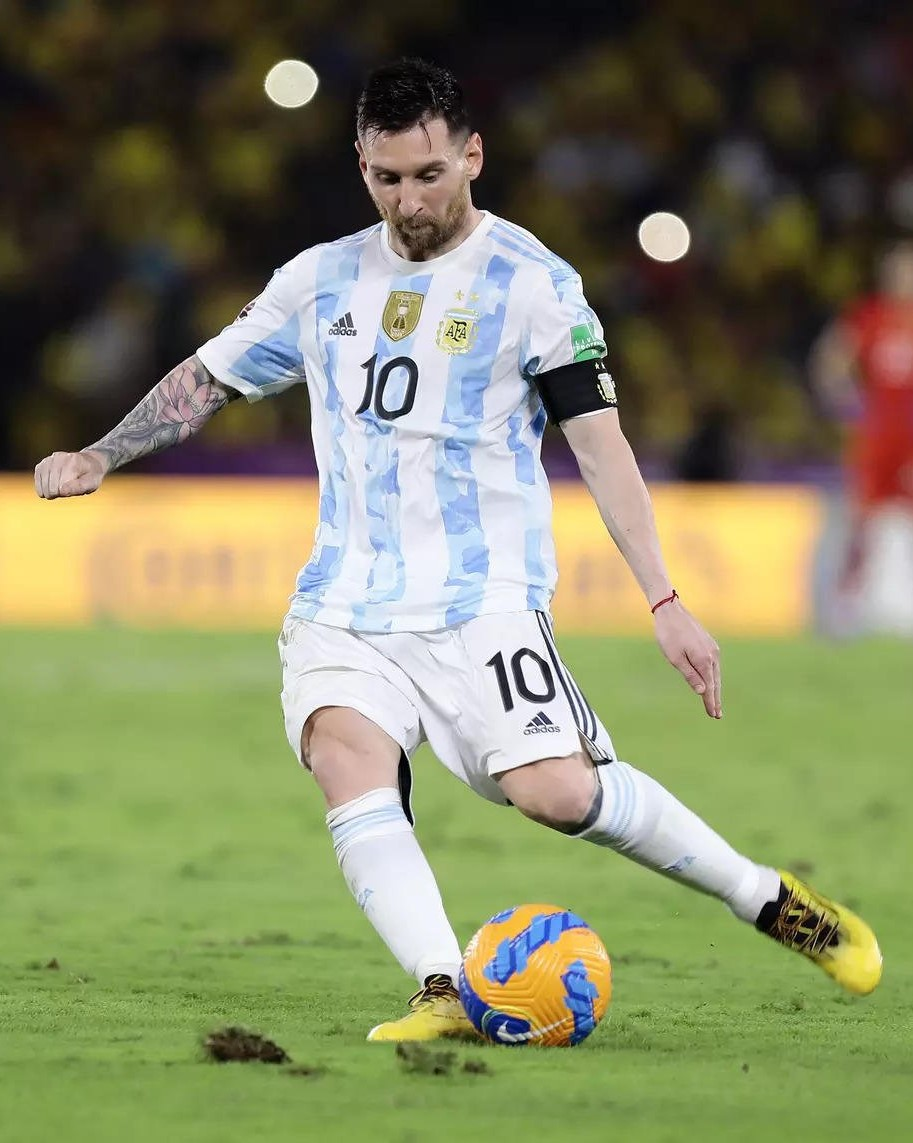
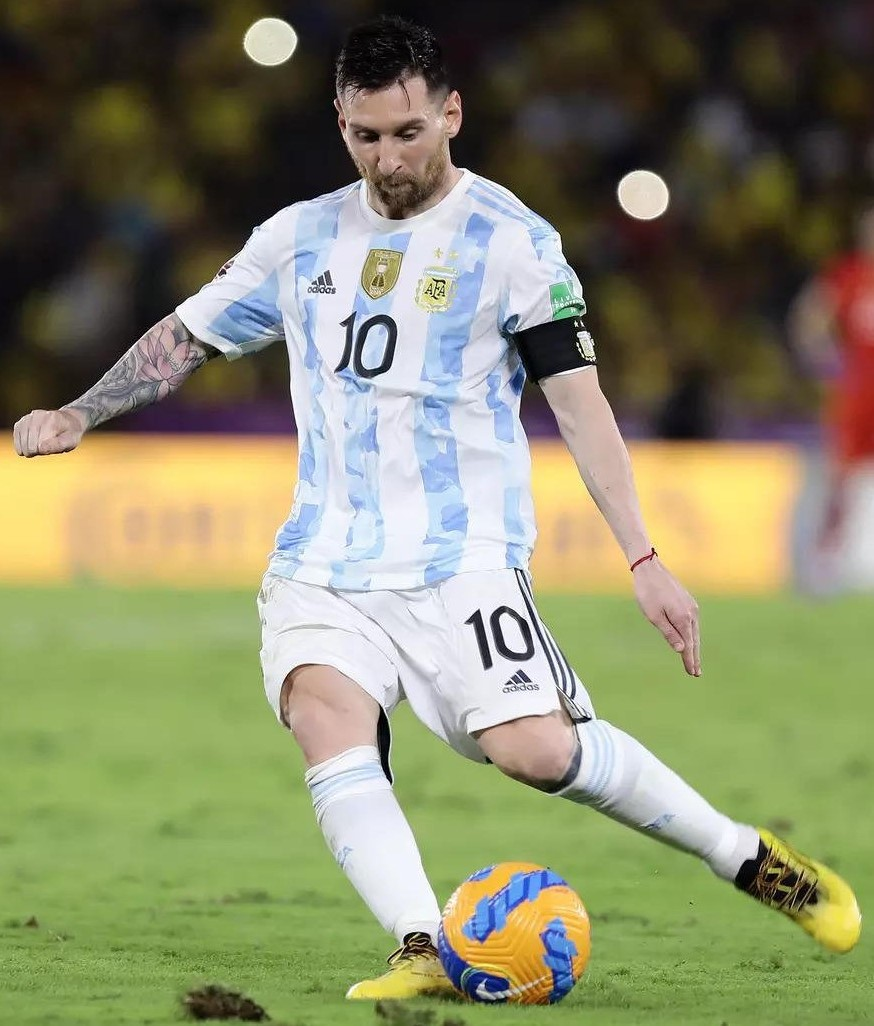
update lots

diff --git a/ErS FIFPro/Forms/fFootballerInfo.Designer.cs b/ErS FIFPro/Forms/fFootballerInfo.Designer.cs
@@ -28,25 +28,90 @@
         /// </summary>
         private void InitializeComponent()
         {
+            System.ComponentModel.ComponentResourceManager resources = new System.ComponentModel.ComponentResourceManager(typeof(fFootballerInfo));
             this.pNav = new System.Windows.Forms.Panel();
+            this.panel1 = new System.Windows.Forms.Panel();
+            this.lbFootballerName = new System.Windows.Forms.Label();
+            this.lbFootballerBirthday = new System.Windows.Forms.Label();
+            this.ptbFootballerInfo = new System.Windows.Forms.PictureBox();
             this.btnExit = new FontAwesome.Sharp.IconButton();
             this.btnMinimize = new FontAwesome.Sharp.IconButton();
+            this.lbFootballerCountry = new System.Windows.Forms.Label();
+            this.lbFootballerRole = new System.Windows.Forms.Label();
+            this.lbFootballerIndex = new System.Windows.Forms.Label();
+            this.richTextBox1 = new System.Windows.Forms.RichTextBox();
+            this.lbFootballerDetail = new System.Windows.Forms.Label();
             this.pNav.SuspendLayout();
+            this.panel1.SuspendLayout();
+            ((System.ComponentModel.ISupportInitialize)(this.ptbFootballerInfo)).BeginInit();
             this.SuspendLayout();
             // 
             // pNav
             // 
+            this.pNav.BackColor = System.Drawing.Color.FromArgb(((int)(((byte)(26)))), ((int)(((byte)(25)))), ((int)(((byte)(62)))));
             this.pNav.Controls.Add(this.btnExit);
             this.pNav.Controls.Add(this.btnMinimize);
             this.pNav.Dock = System.Windows.Forms.DockStyle.Top;
             this.pNav.Location = new System.Drawing.Point(0, 0);
             this.pNav.Name = "pNav";
-            this.pNav.Size = new System.Drawing.Size(625, 36);
+            this.pNav.Size = new System.Drawing.Size(866, 36);
             this.pNav.TabIndex = 0;
             this.pNav.MouseDown += new System.Windows.Forms.MouseEventHandler(this.pNav_MouseDown);
             // 
+            // panel1
+            // 
+            this.panel1.Controls.Add(this.lbFootballerDetail);
+            this.panel1.Controls.Add(this.richTextBox1);
+            this.panel1.Controls.Add(this.lbFootballerIndex);
+            this.panel1.Controls.Add(this.lbFootballerRole);
+            this.panel1.Controls.Add(this.lbFootballerCountry);
+            this.panel1.Controls.Add(this.lbFootballerBirthday);
+            this.panel1.Controls.Add(this.lbFootballerName);
+            this.panel1.Dock = System.Windows.Forms.DockStyle.Fill;
+            this.panel1.Location = new System.Drawing.Point(0, 36);
+            this.panel1.Name = "panel1";
+            this.panel1.Size = new System.Drawing.Size(396, 588);
+            this.panel1.TabIndex = 2;
+            // 
+            // lbFootballerName
+            // 
+            this.lbFootballerName.BackColor = System.Drawing.Color.FromArgb(((int)(((byte)(31)))), ((int)(((byte)(30)))), ((int)(((byte)(68)))));
+            this.lbFootballerName.Dock = System.Windows.Forms.DockStyle.Top;
+            this.lbFootballerName.Font = new System.Drawing.Font("Century Schoolbook", 20.25F, System.Drawing.FontStyle.Bold, System.Drawing.GraphicsUnit.Point, ((byte)(0)));
+            this.lbFootballerName.ForeColor = System.Drawing.Color.Gainsboro;
+            this.lbFootballerName.Location = new System.Drawing.Point(0, 0);
+            this.lbFootballerName.Name = "lbFootballerName";
+            this.lbFootballerName.Size = new System.Drawing.Size(396, 62);
+            this.lbFootballerName.TabIndex = 20;
+            this.lbFootballerName.Text = "Lionel Messi";
+            this.lbFootballerName.TextAlign = System.Drawing.ContentAlignment.MiddleCenter;
+            // 
+            // lbFootballerBirthday
+            // 
+            this.lbFootballerBirthday.Dock = System.Windows.Forms.DockStyle.Top;
+            this.lbFootballerBirthday.Font = new System.Drawing.Font("Century Schoolbook", 14.25F, System.Drawing.FontStyle.Regular, System.Drawing.GraphicsUnit.Point, ((byte)(0)));
+            this.lbFootballerBirthday.ForeColor = System.Drawing.Color.Black;
+            this.lbFootballerBirthday.Location = new System.Drawing.Point(0, 62);
+            this.lbFootballerBirthday.Name = "lbFootballerBirthday";
+            this.lbFootballerBirthday.Size = new System.Drawing.Size(396, 36);
+            this.lbFootballerBirthday.TabIndex = 21;
+            this.lbFootballerBirthday.Text = "Birthday:";
+            this.lbFootballerBirthday.TextAlign = System.Drawing.ContentAlignment.MiddleLeft;
+            // 
+            // ptbFootballerInfo
+            // 
+            this.ptbFootballerInfo.BackgroundImage = global::ErS_FIFPro.FootballerInfos.Lionel_Messi2;
+            this.ptbFootballerInfo.BackgroundImageLayout = System.Windows.Forms.ImageLayout.Stretch;
+            this.ptbFootballerInfo.Dock = System.Windows.Forms.DockStyle.Right;
+            this.ptbFootballerInfo.Location = new System.Drawing.Point(396, 36);
+            this.ptbFootballerInfo.Name = "ptbFootballerInfo";
+            this.ptbFootballerInfo.Size = new System.Drawing.Size(470, 588);
+            this.ptbFootballerInfo.TabIndex = 1;
+            this.ptbFootballerInfo.TabStop = false;
+            // 
             // btnExit
             // 
+            this.btnExit.Cursor = System.Windows.Forms.Cursors.Hand;
             this.btnExit.FlatAppearance.BorderSize = 0;
             this.btnExit.FlatStyle = System.Windows.Forms.FlatStyle.Flat;
             this.btnExit.ForeColor = System.Drawing.Color.Gainsboro;
@@ -54,7 +119,7 @@
             this.btnExit.IconColor = System.Drawing.Color.Gainsboro;
             this.btnExit.IconFont = FontAwesome.Sharp.IconFont.Auto;
             this.btnExit.IconSize = 40;
-            this.btnExit.Location = new System.Drawing.Point(580, 4);
+            this.btnExit.Location = new System.Drawing.Point(826, 5);
             this.btnExit.Margin = new System.Windows.Forms.Padding(3, 2, 3, 2);
             this.btnExit.Name = "btnExit";
             this.btnExit.Size = new System.Drawing.Size(37, 29);
@@ -66,6 +131,7 @@
             // 
             // btnMinimize
             // 
+            this.btnMinimize.Cursor = System.Windows.Forms.Cursors.Hand;
             this.btnMinimize.FlatAppearance.BorderSize = 0;
             this.btnMinimize.FlatStyle = System.Windows.Forms.FlatStyle.Flat;
             this.btnMinimize.ForeColor = System.Drawing.Color.Gainsboro;
@@ -74,7 +140,7 @@
             this.btnMinimize.IconFont = FontAwesome.Sharp.IconFont.Auto;
             this.btnMinimize.IconSize = 30;
             this.btnMinimize.ImageAlign = System.Drawing.ContentAlignment.BottomCenter;
-            this.btnMinimize.Location = new System.Drawing.Point(537, 3);
+            this.btnMinimize.Location = new System.Drawing.Point(786, 4);
             this.btnMinimize.Margin = new System.Windows.Forms.Padding(3, 2, 3, 2);
             this.btnMinimize.Name = "btnMinimize";
             this.btnMinimize.Size = new System.Drawing.Size(37, 27);
@@ -82,17 +148,81 @@
             this.btnMinimize.UseVisualStyleBackColor = true;
             this.btnMinimize.Click += new System.EventHandler(this.btnMinimize_Click);
             // 
+            // lbFootballerCountry
+            // 
+            this.lbFootballerCountry.Dock = System.Windows.Forms.DockStyle.Top;
+            this.lbFootballerCountry.Font = new System.Drawing.Font("Century Schoolbook", 14.25F, System.Drawing.FontStyle.Regular, System.Drawing.GraphicsUnit.Point, ((byte)(0)));
+            this.lbFootballerCountry.ForeColor = System.Drawing.Color.Black;
+            this.lbFootballerCountry.Location = new System.Drawing.Point(0, 98);
+            this.lbFootballerCountry.Name = "lbFootballerCountry";
+            this.lbFootballerCountry.Size = new System.Drawing.Size(396, 36);
+            this.lbFootballerCountry.TabIndex = 22;
+            this.lbFootballerCountry.Text = "Country:";
+            this.lbFootballerCountry.TextAlign = System.Drawing.ContentAlignment.MiddleLeft;
+            // 
+            // lbFootballerRole
+            // 
+            this.lbFootballerRole.Dock = System.Windows.Forms.DockStyle.Top;
+            this.lbFootballerRole.Font = new System.Drawing.Font("Century Schoolbook", 14.25F, System.Drawing.FontStyle.Regular, System.Drawing.GraphicsUnit.Point, ((byte)(0)));
+            this.lbFootballerRole.ForeColor = System.Drawing.Color.Black;
+            this.lbFootballerRole.Location = new System.Drawing.Point(0, 134);
+            this.lbFootballerRole.Name = "lbFootballerRole";
+            this.lbFootballerRole.Size = new System.Drawing.Size(396, 36);
+            this.lbFootballerRole.TabIndex = 23;
+            this.lbFootballerRole.Text = "Role:";
+            this.lbFootballerRole.TextAlign = System.Drawing.ContentAlignment.MiddleLeft;
+            // 
+            // lbFootballerIndex
+            // 
+            this.lbFootballerIndex.Dock = System.Windows.Forms.DockStyle.Top;
+            this.lbFootballerIndex.Font = new System.Drawing.Font("Century Schoolbook", 14.25F, System.Drawing.FontStyle.Regular, System.Drawing.GraphicsUnit.Point, ((byte)(0)));
+            this.lbFootballerIndex.ForeColor = System.Drawing.Color.Black;
+            this.lbFootballerIndex.Location = new System.Drawing.Point(0, 170);
+            this.lbFootballerIndex.Name = "lbFootballerIndex";
+            this.lbFootballerIndex.Size = new System.Drawing.Size(396, 36);
+            this.lbFootballerIndex.TabIndex = 24;
+            this.lbFootballerIndex.Text = "Index:";
+            this.lbFootballerIndex.TextAlign = System.Drawing.ContentAlignment.MiddleLeft;
+            // 
+            // richTextBox1
+            // 
+            this.richTextBox1.BorderStyle = System.Windows.Forms.BorderStyle.None;
+            this.richTextBox1.Dock = System.Windows.Forms.DockStyle.Bottom;
+            this.richTextBox1.Font = new System.Drawing.Font("Century Schoolbook", 14.25F, System.Drawing.FontStyle.Regular, System.Drawing.GraphicsUnit.Point, ((byte)(0)));
+            this.richTextBox1.Location = new System.Drawing.Point(0, 247);
+            this.richTextBox1.Name = "richTextBox1";
+            this.richTextBox1.ReadOnly = true;
+            this.richTextBox1.Size = new System.Drawing.Size(396, 341);
+            this.richTextBox1.TabIndex = 25;
+            this.richTextBox1.Text = resources.GetString("richTextBox1.Text");
+            // 
+            // lbFootballerDetail
+            // 
+            this.lbFootballerDetail.Dock = System.Windows.Forms.DockStyle.Top;
+            this.lbFootballerDetail.Font = new System.Drawing.Font("Century Schoolbook", 14.25F, System.Drawing.FontStyle.Regular, System.Drawing.GraphicsUnit.Point, ((byte)(0)));
+            this.lbFootballerDetail.ForeColor = System.Drawing.Color.Black;
+            this.lbFootballerDetail.Location = new System.Drawing.Point(0, 206);
+            this.lbFootballerDetail.Name = "lbFootballerDetail";
+            this.lbFootballerDetail.Size = new System.Drawing.Size(396, 36);
+            this.lbFootballerDetail.TabIndex = 26;
+            this.lbFootballerDetail.Text = "Detail:";
+            this.lbFootballerDetail.TextAlign = System.Drawing.ContentAlignment.MiddleLeft;
+            // 
             // fFootballerInfo
             // 
             this.AutoScaleDimensions = new System.Drawing.SizeF(6F, 13F);
             this.AutoScaleMode = System.Windows.Forms.AutoScaleMode.Font;
-            this.ClientSize = new System.Drawing.Size(625, 624);
+            this.ClientSize = new System.Drawing.Size(866, 624);
+            this.Controls.Add(this.panel1);
+            this.Controls.Add(this.ptbFootballerInfo);
             this.Controls.Add(this.pNav);
             this.Name = "fFootballerInfo";
             this.StartPosition = System.Windows.Forms.FormStartPosition.CenterScreen;
             this.Text = "fFootballerInfo";
             this.TopMost = true;
             this.pNav.ResumeLayout(false);
+            this.panel1.ResumeLayout(false);
+            ((System.ComponentModel.ISupportInitialize)(this.ptbFootballerInfo)).EndInit();
             this.ResumeLayout(false);
 
         }
@@ -102,5 +232,14 @@
         private System.Windows.Forms.Panel pNav;
         private FontAwesome.Sharp.IconButton btnExit;
         private FontAwesome.Sharp.IconButton btnMinimize;
+        private System.Windows.Forms.PictureBox ptbFootballerInfo;
+        private System.Windows.Forms.Panel panel1;
+        private System.Windows.Forms.Label lbFootballerName;
+        private System.Windows.Forms.Label lbFootballerBirthday;
+        private System.Windows.Forms.Label lbFootballerRole;
+        private System.Windows.Forms.Label lbFootballerCountry;
+        private System.Windows.Forms.Label lbFootballerIndex;
+        private System.Windows.Forms.RichTextBox richTextBox1;
+        private System.Windows.Forms.Label lbFootballerDetail;
     }
 }

diff --git a/ErS FIFPro/Forms/fHome.Designer.cs b/ErS FIFPro/Forms/fHome.Designer.cs
@@ -166,6 +166,7 @@
             // 
             // btnExit
             // 
+            this.btnExit.Cursor = System.Windows.Forms.Cursors.Hand;
             this.btnExit.FlatAppearance.BorderSize = 0;
             this.btnExit.FlatStyle = System.Windows.Forms.FlatStyle.Flat;
             this.btnExit.ForeColor = System.Drawing.Color.Gainsboro;
@@ -185,6 +186,7 @@
             // 
             // btnMinimize
             // 
+            this.btnMinimize.Cursor = System.Windows.Forms.Cursors.Hand;
             this.btnMinimize.FlatAppearance.BorderSize = 0;
             this.btnMinimize.FlatStyle = System.Windows.Forms.FlatStyle.Flat;
             this.btnMinimize.ForeColor = System.Drawing.Color.Gainsboro;
@@ -203,6 +205,7 @@
             // 
             // btnLetter
             // 
+            this.btnLetter.Cursor = System.Windows.Forms.Cursors.Hand;
             this.btnLetter.Dock = System.Windows.Forms.DockStyle.Left;
             this.btnLetter.FlatAppearance.BorderSize = 0;
             this.btnLetter.FlatStyle = System.Windows.Forms.FlatStyle.Flat;
@@ -225,6 +228,7 @@
             // 
             // btnConfig
             // 
+            this.btnConfig.Cursor = System.Windows.Forms.Cursors.Hand;
             this.btnConfig.Dock = System.Windows.Forms.DockStyle.Left;
             this.btnConfig.FlatAppearance.BorderSize = 0;
             this.btnConfig.FlatStyle = System.Windows.Forms.FlatStyle.Flat;
@@ -247,6 +251,7 @@
             // 
             // btnCoaching
             // 
+            this.btnCoaching.Cursor = System.Windows.Forms.Cursors.Hand;
             this.btnCoaching.Dock = System.Windows.Forms.DockStyle.Left;
             this.btnCoaching.FlatAppearance.BorderSize = 0;
             this.btnCoaching.FlatStyle = System.Windows.Forms.FlatStyle.Flat;
@@ -269,6 +274,7 @@
             // 
             // btnFootballer
             // 
+            this.btnFootballer.Cursor = System.Windows.Forms.Cursors.Hand;
             this.btnFootballer.Dock = System.Windows.Forms.DockStyle.Left;
             this.btnFootballer.FlatAppearance.BorderSize = 0;
             this.btnFootballer.FlatStyle = System.Windows.Forms.FlatStyle.Flat;
@@ -291,6 +297,7 @@
             // 
             // btnTeam
             // 
+            this.btnTeam.Cursor = System.Windows.Forms.Cursors.Hand;
             this.btnTeam.Dock = System.Windows.Forms.DockStyle.Left;
             this.btnTeam.FlatAppearance.BorderSize = 0;
             this.btnTeam.FlatStyle = System.Windows.Forms.FlatStyle.Flat;
@@ -313,6 +320,7 @@
             // 
             // btnBetting
             // 
+            this.btnBetting.Cursor = System.Windows.Forms.Cursors.Hand;
             this.btnBetting.Dock = System.Windows.Forms.DockStyle.Left;
             this.btnBetting.FlatAppearance.BorderSize = 0;
             this.btnBetting.FlatStyle = System.Windows.Forms.FlatStyle.Flat;
@@ -335,6 +343,7 @@
             // 
             // btnResult
             // 
+            this.btnResult.Cursor = System.Windows.Forms.Cursors.Hand;
             this.btnResult.Dock = System.Windows.Forms.DockStyle.Left;
             this.btnResult.FlatAppearance.BorderSize = 0;
             this.btnResult.FlatStyle = System.Windows.Forms.FlatStyle.Flat;
@@ -357,6 +366,7 @@
             // 
             // btnMatch
             // 
+            this.btnMatch.Cursor = System.Windows.Forms.Cursors.Hand;
             this.btnMatch.Dock = System.Windows.Forms.DockStyle.Left;
             this.btnMatch.FlatAppearance.BorderSize = 0;
             this.btnMatch.FlatStyle = System.Windows.Forms.FlatStyle.Flat;
@@ -380,6 +390,7 @@
             // icptbHome
             // 
             this.icptbHome.BackColor = System.Drawing.Color.FromArgb(((int)(((byte)(26)))), ((int)(((byte)(25)))), ((int)(((byte)(62)))));
+            this.icptbHome.Cursor = System.Windows.Forms.Cursors.Hand;
             this.icptbHome.ForeColor = System.Drawing.SystemColors.ControlText;
             this.icptbHome.IconChar = FontAwesome.Sharp.IconChar.None;
             this.icptbHome.IconColor = System.Drawing.SystemColors.ControlText;

diff --git a/ErS FIFPro/Forms/fFootballerInfo.cs b/ErS FIFPro/Forms/fFootballerInfo.cs
@@ -5,6 +5,8 @@ using System.ComponentModel;
 using System.Data;
 using System.Drawing;
 using System.Linq;
+using System.Reflection;
+using System.Resources;
 using System.Runtime.InteropServices;
 using System.Text;
 using System.Threading.Tasks;
@@ -21,6 +23,15 @@ namespace ErS_FIFPro.Forms
             this.Text = String.Empty;
             this.ControlBox = false;
             this.DoubleBuffered = true;
+
+            ResourceManager FootballerImageManager = new ResourceManager("ErS_FIFPro.FootballerInfos", Assembly.GetExecutingAssembly());
+            ptbFootballerInfo.BackgroundImage = (Image)FootballerImageManager.GetObject(string.Join("_", Footballer["FB_NAME"].ToString().Split(' ')) + "2");
+            lbFootballerName.Text = Footballer["FB_NAME"].ToString();
+            lbFootballerRole.Text = "Role: " + Footballer["FB_ROLE"].ToString();
+            lbFootballerIndex.Text = "Index: " + Footballer["FB_INDEX"].ToString();
+            string[] flags = { "Argentina", "France", "Brazil", "Qatar", "Japan", "South_Korea", "Germany", "Croatia" };
+            lbFootballerCountry.Text = "Country: " + flags[Int32.Parse(Footballer["FB_IDTEAM"].ToString()) - 1];
+            lbFootballerBirthday.Text = "Birthday: " + Footballer["FB_BIRTHDAY"].ToString();
         }
 
         private void btnExit_Click(object sender, EventArgs e)

diff --git a/ErS FIFPro/fLogin.Designer.cs b/ErS FIFPro/fLogin.Designer.cs
@@ -47,6 +47,7 @@
             // 
             // btnRegister
             // 
+            this.btnRegister.Cursor = System.Windows.Forms.Cursors.Hand;
             this.btnRegister.Font = new System.Drawing.Font("Century Schoolbook", 12.75F, System.Drawing.FontStyle.Regular, System.Drawing.GraphicsUnit.Point, ((byte)(0)));
             this.btnRegister.Location = new System.Drawing.Point(272, 376);
             this.btnRegister.Name = "btnRegister";
@@ -58,6 +59,7 @@
             // 
             // btnLogin
             // 
+            this.btnLogin.Cursor = System.Windows.Forms.Cursors.Hand;
             this.btnLogin.Font = new System.Drawing.Font("Century Schoolbook", 12.75F, System.Drawing.FontStyle.Regular, System.Drawing.GraphicsUnit.Point, ((byte)(0)));
             this.btnLogin.Location = new System.Drawing.Point(272, 141);
             this.btnLogin.Name = "btnLogin";

diff --git a/ErS FIFPro/FootballerInfos.Designer.cs b/ErS FIFPro/FootballerInfos.Designer.cs
@@ -63,6 +63,16 @@ namespace ErS_FIFPro {
         /// <summary>
         ///   Looks up a localized resource of type System.Drawing.Bitmap.
         /// </summary>
+        internal static System.Drawing.Bitmap Lionel_Messi2 {
+            get {
+                object obj = ResourceManager.GetObject("Lionel_Messi2", resourceCulture);
+                return ((System.Drawing.Bitmap)(obj));
+            }
+        }
+        
+        /// <summary>
+        ///   Looks up a localized resource of type System.Drawing.Bitmap.
+        /// </summary>
         internal static System.Drawing.Bitmap Messi {
             get {
                 object obj = ResourceManager.GetObject("Messi", resourceCulture);

diff --git a/ErS FIFPro/User Controls/FootballerCard.cs b/ErS FIFPro/User Controls/FootballerCard.cs
@@ -23,6 +23,7 @@ namespace ErS_FIFPro.User_Controls
 
             ResourceManager FootballerImageManager = new ResourceManager("ErS_FIFPro.Footballers", Assembly.GetExecutingAssembly());
             ptbFootballer.BackgroundImage = (Image)FootballerImageManager.GetObject(string.Join("_", Footballer["FB_NAME"].ToString().Split(' ')));
+            ptbFootballer.Click += FootballerCard_Click;
             lbFootballerName.Text = Footballer["FB_NAME"].ToString();
             lbRole.Text = Footballer["FB_ROLE"].ToString();
             lbIndex.Text = Footballer["FB_INDEX"].ToString();

diff --git a/ErS FIFPro/User Controls/FootballerCard.Designer.cs b/ErS FIFPro/User Controls/FootballerCard.Designer.cs
@@ -159,6 +159,7 @@
             this.Controls.Add(this.lbFootballerName);
             this.Controls.Add(this.ptbFlag);
             this.Controls.Add(this.ptbFootballer);
+            this.Cursor = System.Windows.Forms.Cursors.Hand;
             this.Margin = new System.Windows.Forms.Padding(60, 10, 0, 30);
             this.Name = "FootballerCard";
             this.Size = new System.Drawing.Size(240, 300);
